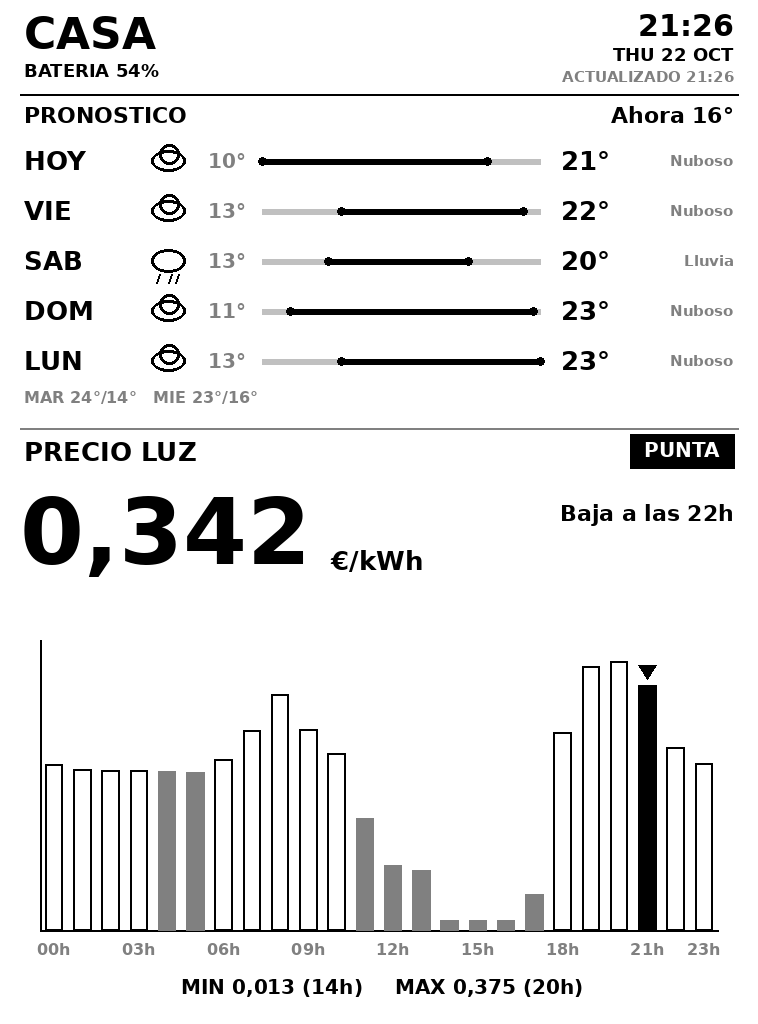
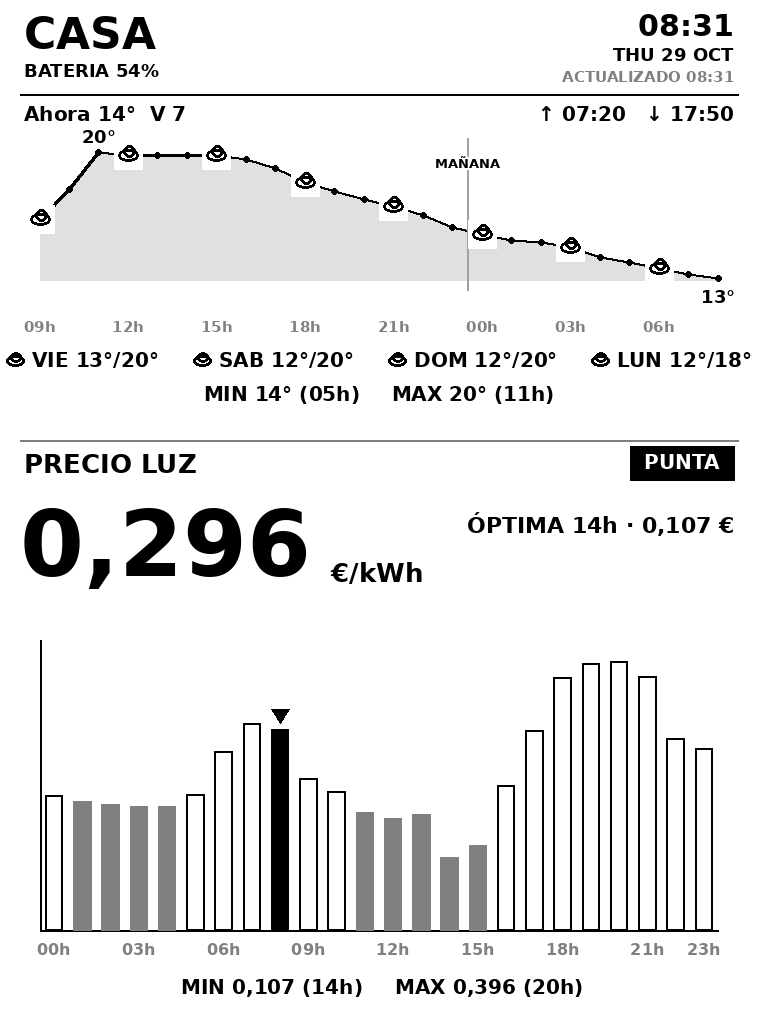
README y preview del diseño v1.6; .gitignore: weather_hours.json

diff --git a/README.md b/README.md
@@ -3,8 +3,13 @@
 Convierte un Kindle Paperwhite antiguo en un salvapantallas de Home Assistant
 que se **actualiza cada hora, 24 h/día**, mostrando:
 
-- Pronóstico del tiempo de tu entidad `weather.*` (rango de temperaturas por día, estilo Apple)
-- Precio de la luz PVPC (España): precio actual, badge `VALLE`/`MEDIO`/`PUNTA`, barras 24 h, `MIN`/`MAX`
+- Pronóstico del tiempo de tu entidad `weather.*`: **curva horaria de
+  temperatura** de las próximas ~24 h (área rellena, iconos cada 3 h, máx/mín
+  etiquetados, cambio de día), sol (↑ amanece ↓ atardece), barras de
+  probabilidad de lluvia, strip compacto de los días siguientes y pie
+  `MIN`/`MAX (XXh)` del día en curso
+- Precio de la luz PVPC (España): precio actual, badge `VALLE`/`MEDIO`/`PUNTA`,
+  `ÓPTIMA HHh · 0,XXX €` (la hora más barata del día), barras 24 h, `MIN`/`MAX`
 - Batería del propio Kindle (cabecera) y aviso en HA si baja del 20 %
 
 Renderizado con Pillow en el servidor (imagen PNG 758×1024, 8-bit gris, alto
@@ -18,9 +23,9 @@ despertar RTC, mientras duerme.
 > como guía de referencia ni para nada crítico: sigue los pasos bajo tu propia
 > responsabilidad, y el código puede tener errores — probablemente los tiene.
 
-*Cabecera con batería, pronóstico semanal con barras de rango y `Ahora XX°`,
-y precio de la luz PVPC protagonista: tramo `PUNTA`/`MEDIO`/`VALLE`, precio
-actual, próxima subida/bajada, barras 24 h y `MIN`/`MAX`.*
+*Cabecera con batería, curva horaria de temperatura con sol y precipitación,
+strip de los días siguientes, y precio de la luz PVPC protagonista: tramo
+`PUNTA`/`MEDIO`/`VALLE`, precio actual, `ÓPTIMA HHh`, barras 24 h y `MIN`/`MAX`.*
 
 ## Índice
 
@@ -118,6 +123,23 @@ El refresco horario lo programa el parche con el wakeup manager de KOReader
 (RTC a la hora en punto, reconexión WiFi incluida).
 ```
 
+Detalles que conviene conocer:
+
+- **Cache de datos HA** con TTL configurable (`DATA_TTL`, por defecto 300 s);
+  las entidades se fijan con `WEATHER_ENTITY`, `PRICE_ENTITY` y el título de la
+  cabecera con `TITLE` (ver `.env.example`).
+- **Histórico horario del día** (`weather_hours.json`, autogenerado junto al
+  script): HA solo devuelve horas *futuras* en el forecast horario; el servidor
+  acumula las temperaturas del día en cada fetch para poder pintar el pie
+  `MIN XX° (HHh) / MAX XX° (HHh)` con horas reales.
+- **Refresco de fondo**: un hilo interno reconsulta HA cada hora si el Kindle no
+  fetchea (está dormido o falló un ciclo), para que el histórico y la caché no
+  se queden a medias.
+- **Sincronización de reloj**: cada respuesta lleva `X-Host-Epoch` (epoch del
+  host); el parche (`syncClock`) corrige solo la desviación sub-horaria del
+  reloj del Kindle, para que las alarmas RTC sigan cayendo en el `:00` del host
+  (sin esto, las actualizaciones se disparaban a las `xx:59`).
+
 Instalación del servidor:
 
 ```bash
@@ -155,6 +177,9 @@ Con el Kindle conectado por USB (o SSH):
    - Flags de emergencia (crear/borrar ficheros en la raíz USB):
      `live-sleepscreen.nowake` (desactiva despertares) y
      `live-sleepscreen.fasttest` (despertar cada 5 min para probar).
+   - El parche sincroniza automáticamente su reloj con el servidor en cada
+     fetch (`X-Host-Epoch` → `syncClock`); si tu servidor no es
+     `kindle-ha.py`, esta parte no hará nada.
 2. **Pantalla de reposo**: copia también `koreader/patches/koreader.settings.lua`
    (o pega sus claves en tus settings) para que el salvapantallas de KOReader
    muestre `wallpaper.png` sin mensajes.
